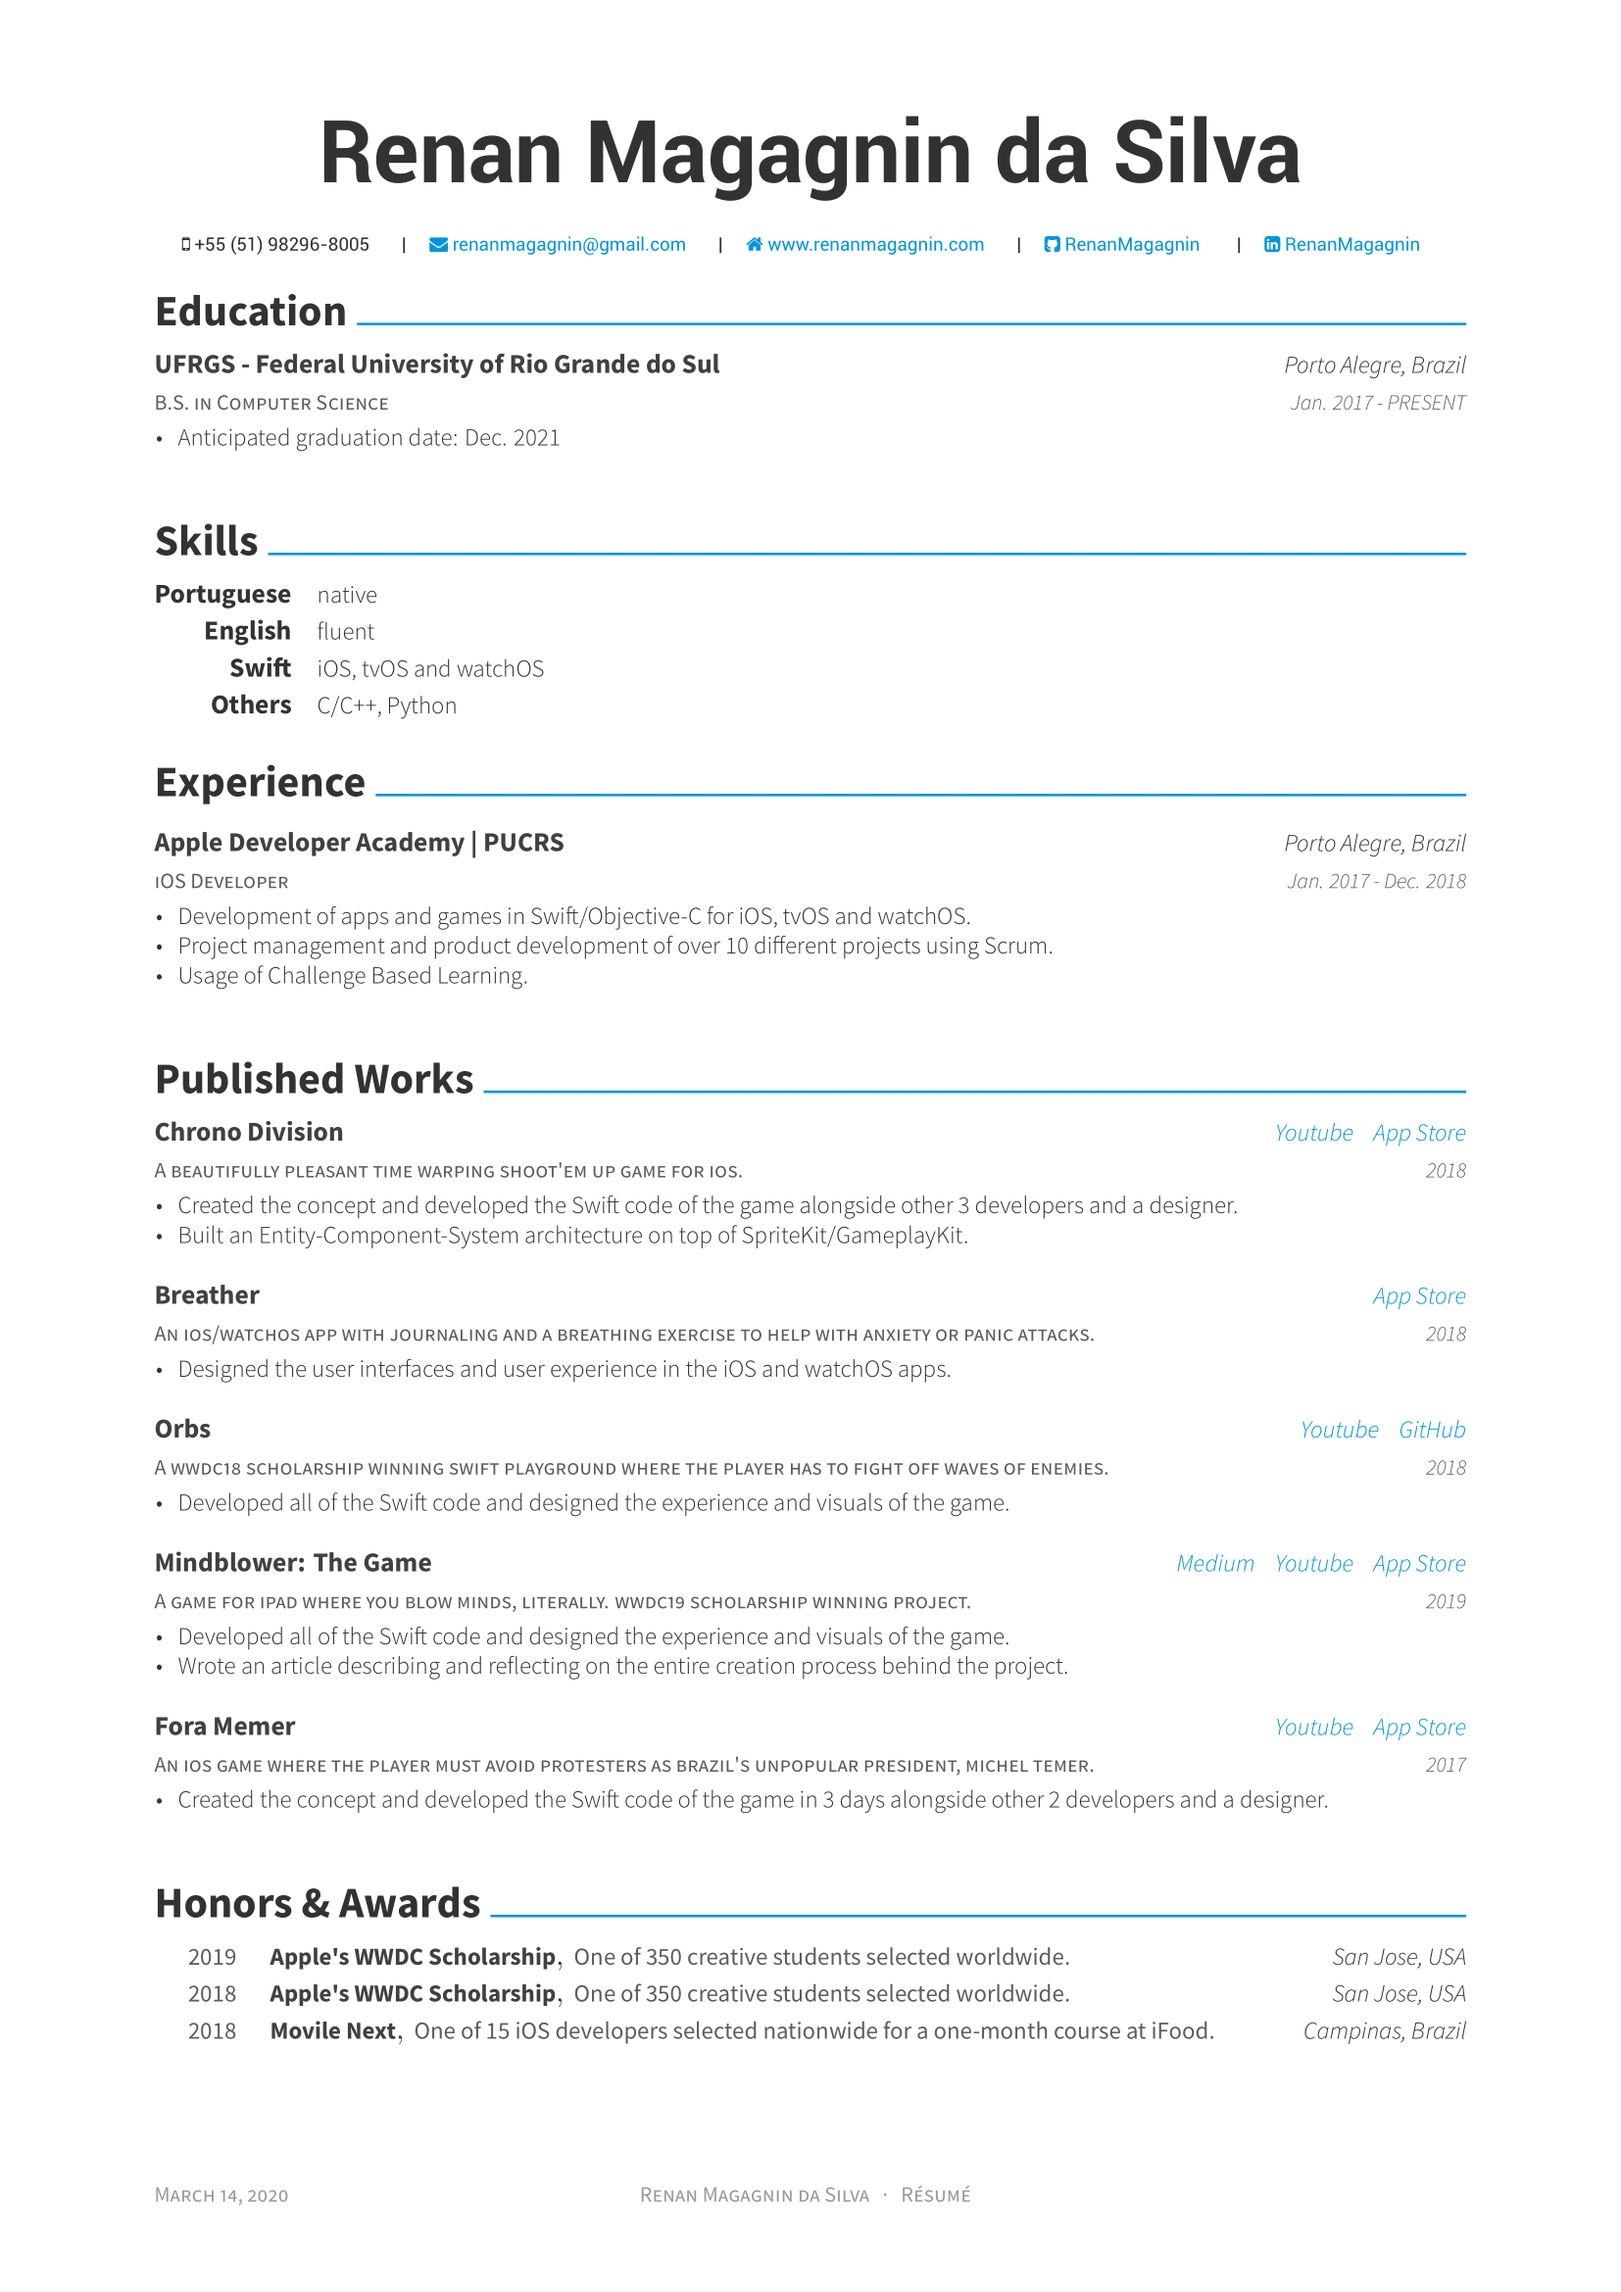
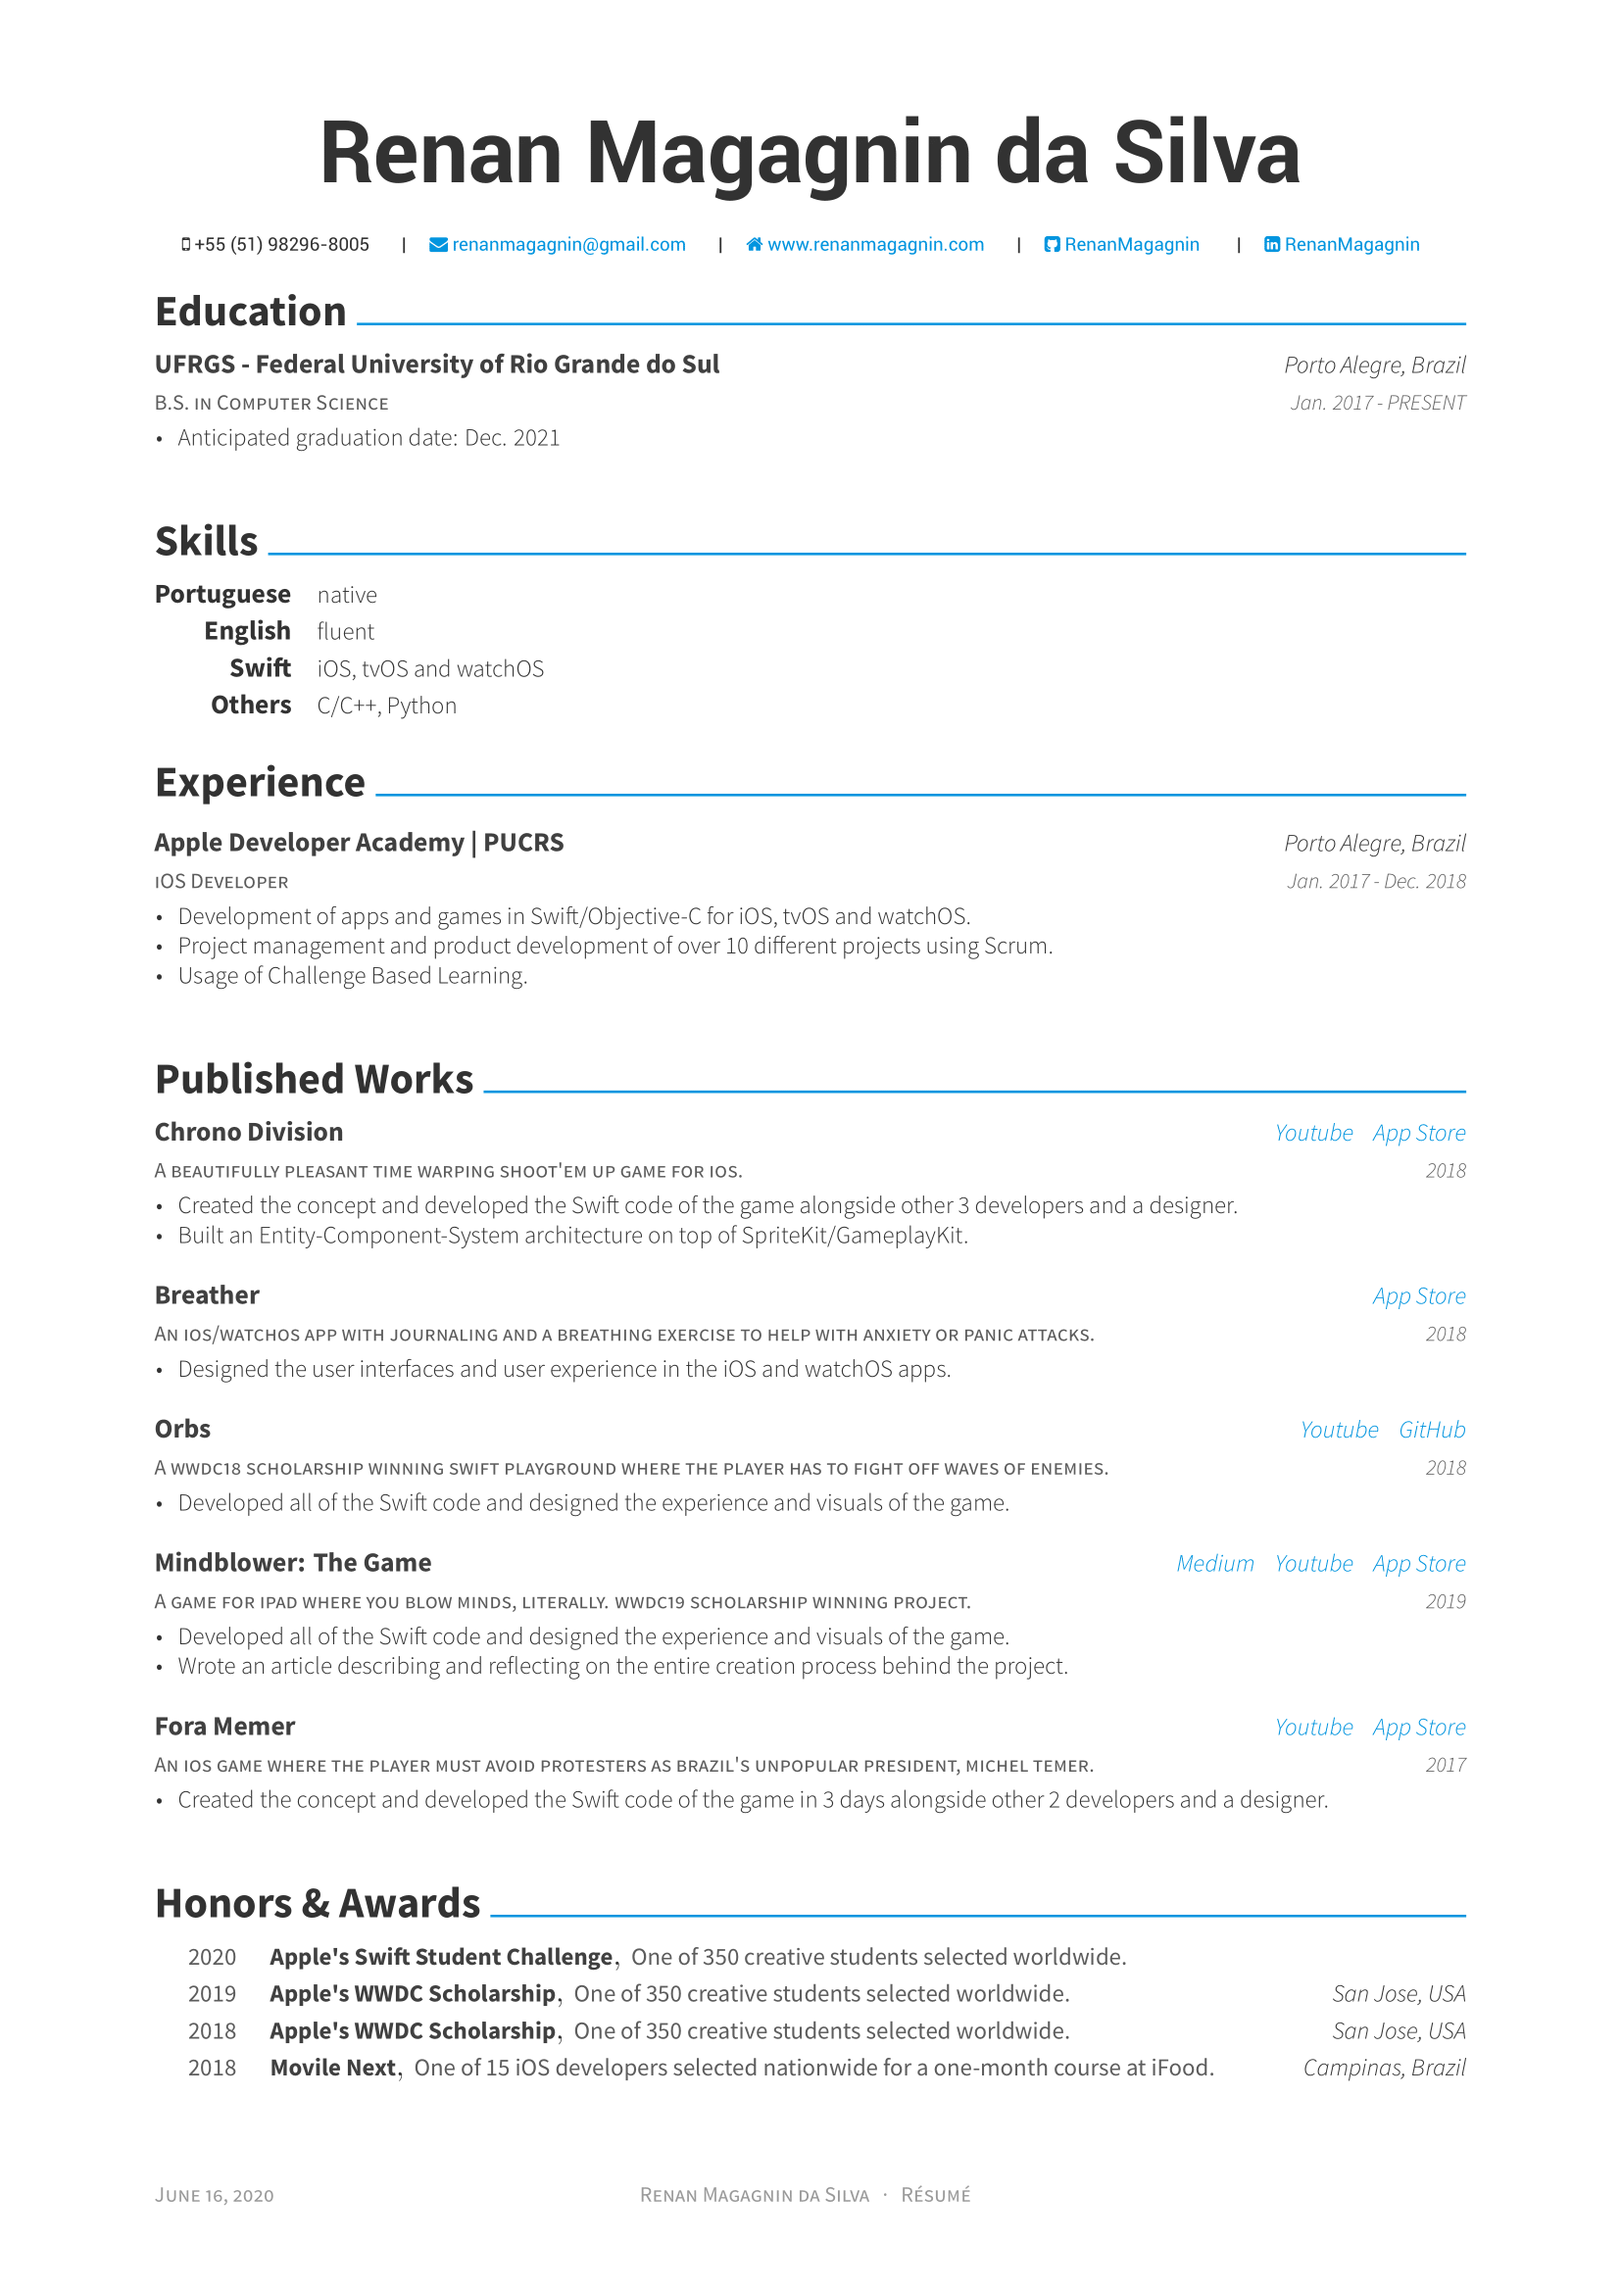
Include Apple's Swift Student Challenge

Changed region(s): [[0.1542, 0.8427, 0.74, 0.9051], [0.8017, 0.8739, 0.8942, 0.9051]]

diff --git a/resume/honors.tex b/resume/honors.tex
@@ -1,6 +1,12 @@
 \cvsection{Honors \& Awards}
 \begin{cvhonors}
   \cvhonor
+    {Apple's Swift Student Challenge}
+    {One of 350 creative students selected worldwide.}
+    %{One of 350 creative students selected worldwide based on technical accomplishment and creativity.}
+    {}
+    {2020}
+  \cvhonor
     {Apple's WWDC Scholarship}
     {One of 350 creative students selected worldwide.}
     {San Jose, USA}
